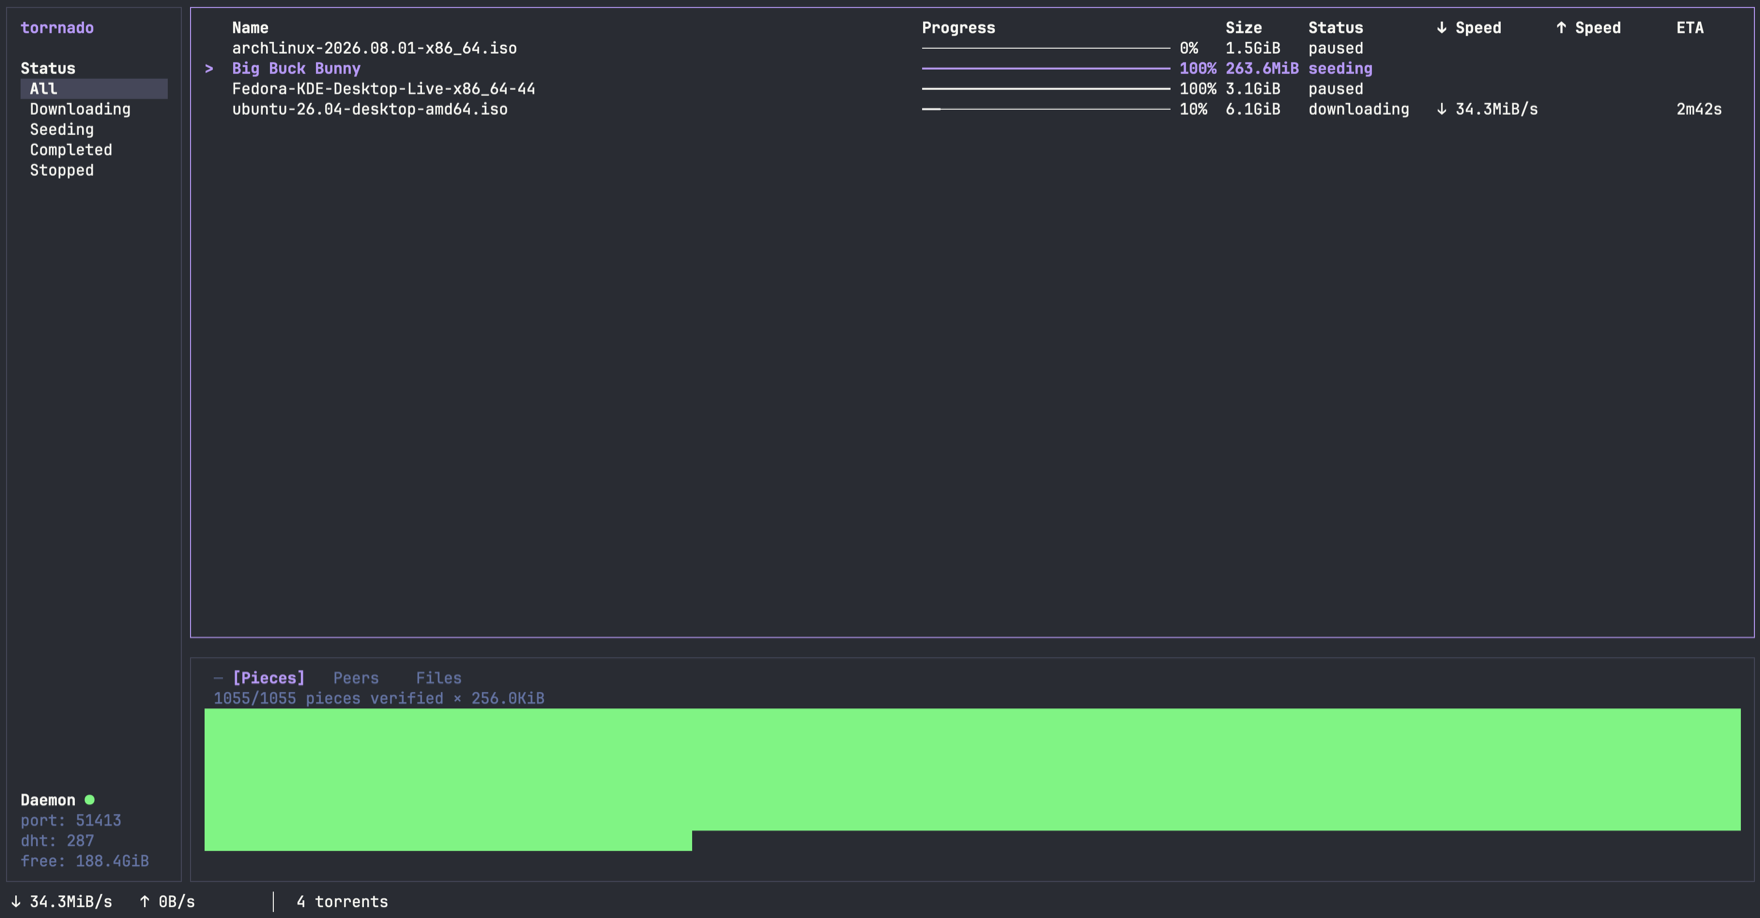
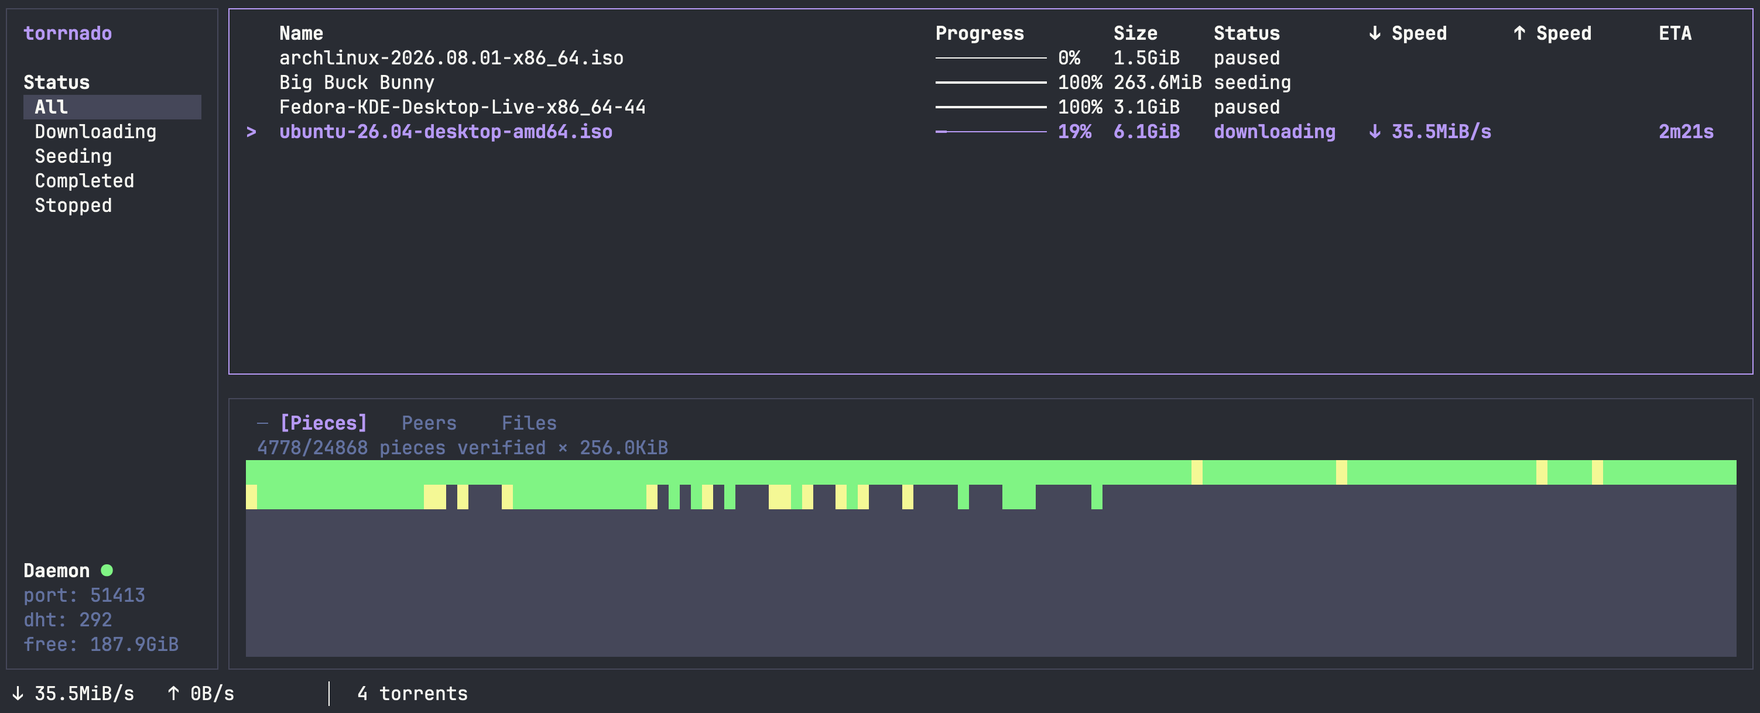
docs: a denser hero screenshot, with a live download in it
Replaces the first capture. That one was 3634px wide against an 843px
frame, and showed every torrent either paused or finished, which says
nothing about what the thing does.

This one is 3006px and catches a torrent mid-flight: 19%, 35.5MiB/s, an
ETA, and a piece map with real gaps in it rather than a solid block.

300px of empty list rows are spliced out of the middle, found by scanning
the pane interior for rows of a single flat colour. That takes it from
1518px to 1218px tall, a 2.47:1 hero rather than a 2:1 one with a hole in
the middle. Resampled to 1760px, which is 2x the frame.

diff --git a/docs/index.md b/docs/index.md
@@ -22,10 +22,10 @@ The engine runs as a daemon, so closing the terminal doesn't stop the download.
 
 <div class="tn-terminal">
 <div class="tn-terminal__bar"><i></i><i></i><i></i><span>torrnado</span></div>
-<img src="assets/tui.png" width="1760" height="918"
+<img src="assets/tui.png" width="1760" height="713"
      alt="The torrnado TUI: a sidebar filtering by status, four torrents listed with
-          progress bars, sizes, states and speeds, and a docked Pieces tab below showing
-          a fully verified piece map. The footer reads 34.3MiB/s down, 4 torrents.">
+          progress, size, state and speed, one downloading at 19% and 35.5MiB/s, and
+          a docked Pieces tab below showing the verified piece map.">
 </div>
 
 <div class="tn-stats">
